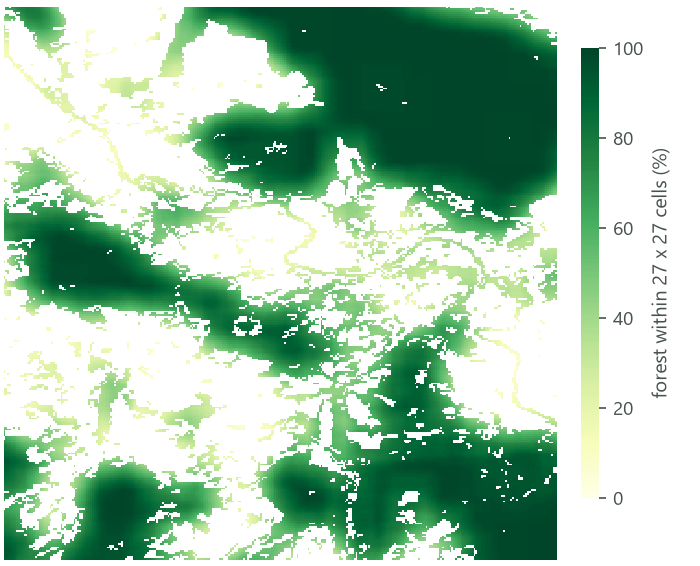
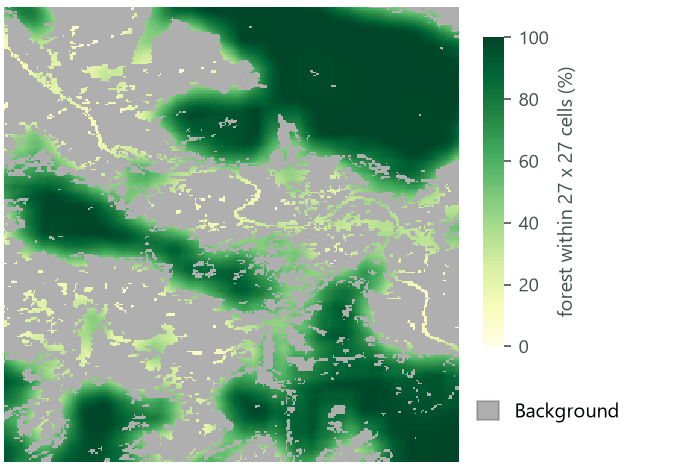
fix(website): the two maps of the slider of Fragmentation and loss line up (the density drawn as the classes are, the same size and place under the handle), the land that is not forest grey in both

diff --git a/website/figures/fragmentation/fragmentation-and-habitat-loss.py b/website/figures/fragmentation/fragmentation-and-habitat-loss.py
@@ -131,15 +131,49 @@ forest = g.read(work / "input.tif")
 FOREST = {2: ("Forest", figs.FOREST), 1: ("Background", "#e9e4d8"), 0: ("Missing", "#ffffff")}
 g.classmap(forest[R], out / "forest-zoom.png", FOREST, order=[2, 1], width=700, legend_width=0.26)
 d27 = g.read(work / "fad27.tif").astype(float)
-fgm = (d27 <= 100)
-g.ramp(np.where(fgm, d27, np.nan)[R], out / "fad27-density-zoom.png", cmap="YlGn", vmin=0, vmax=100, width=700,
-       unit="forest within 27 x 27 cells (%)")
+ZOOM_LEGEND = 0.34   # the zooms' legend width: both sides of the slider put the map at the same pixels
+
+
+def density_zoom(d, png, width=700, legend_width=ZOOM_LEGEND):
+    """The density (0-100 on the forest) drawn as g.classmap draws its classes, same figure and map axes, so that it
+    lines up with the classes under a slider: a colour bar in the legend's place, the background in the classes'
+    grey (YlGn's 0% is near white), missing cells white."""
+    h, w = d.shape
+    dpi = 150
+    W = width / dpi
+    map_frac = 1 - legend_width
+    H = W * map_frac * h / w + 0.04
+    fig = plt.figure(figsize=(W, H), dpi=dpi)
+    top = 1 - 0.02 / H
+    ax = fig.add_axes([0.005, 0.02 / H, map_frac - 0.01, top - 0.02 / H])
+    ax.set_axis_off()
+    cmap = plt.get_cmap("YlGn").copy()
+    rgba = cmap(mcolors.Normalize(0, 100)(np.clip(d, 0, 100)))
+    rgba[d == 101] = mcolors.to_rgba(g.FAD_CLASS[101][1])
+    rgba[d > 101] = (1, 1, 1, 1)
+    ax.imshow(rgba, interpolation="nearest")
+    cax = fig.add_axes([map_frac + 0.03, 0.26, 0.03, 0.66])
+    cb = fig.colorbar(plt.cm.ScalarMappable(mcolors.Normalize(0, 100), cmap), cax=cax)
+    cb.outline.set_visible(False)
+    cb.ax.grid(False)
+    cb.ax.tick_params(labelsize=9)
+    cb.set_label("forest within 27 x 27 cells (%)", fontsize=9.5, color=figs.INK2)
+    fig.legend(handles=[Patch(facecolor=g.FAD_CLASS[101][1], edgecolor="#00000033", label="Background")],
+               loc="center left", bbox_to_anchor=(map_frac + 0.01, 0.12), fontsize=9.5, handlelength=1.1,
+               handleheight=1.1, borderaxespad=0, frameon=False)
+    fig.savefig(png, dpi=dpi)
+    plt.close(fig)
+    figs._shrink(png)
+    return png
+
+
+density_zoom(d27[R], out / "fad27-density-zoom.png")
 c27 = g.read(work / "fad27_classes.tif")
 print("fad27 class codes", np.unique(c27))
 g.classmap(g.density_classes(d27), out / "fad27-classes.png", g.FAD_CLASS, order=g.FAD_ORDER[:-1], width=900,
            legend_width=0.34)
 g.classmap(g.density_classes(d27)[R], out / "fad27-classes-zoom.png", g.FAD_CLASS, order=g.FAD_ORDER[:-1], width=700,
-           legend_width=0.34)
+           legend_width=ZOOM_LEGEND)
 # every scale of FAD-MS as classes, the same zoom, a frame each (same size)
 scales = g.read_all(work / "ms_scales.tif")
 WINDOWS = [7, 13, 27, 81, 243]

diff --git a/website/content/tutorials/fragmentation/fragmentation-and-habitat-loss.md b/website/content/tutorials/fragmentation/fragmentation-and-habitat-loss.md
@@ -154,7 +154,7 @@ FAD-MS also gives `scales`, a stack of the density at each window, so you can lo
 ### One scale
 
 ```tfcompare
-caption: "The south of the map. Left of the handle, the density of forest within 27 cells of every forest cell (white: not forest); right, its six classes. The interiors of the large forests are dark green (interior and intact); their edges and the woods of the valley dominant and transitional; the tree lines across the fields patchy and rare."
+caption: "The south of the map. Left of the handle, the density of forest within 27 cells of every forest cell (grey: not forest, as on the right); right, its six classes. The interiors of the large forests are dark green (interior and intact); their edges and the woods of the valley dominant and transitional; the tree lines across the fields patchy and rare."
 before: { src: /img/tutorials/fragmentation/fragmentation-and-habitat-loss/fad27-density-zoom.png, label: Density }
 after: { src: /img/tutorials/fragmentation/fragmentation-and-habitat-loss/fad27-classes-zoom.png, label: Classes }
 ```
